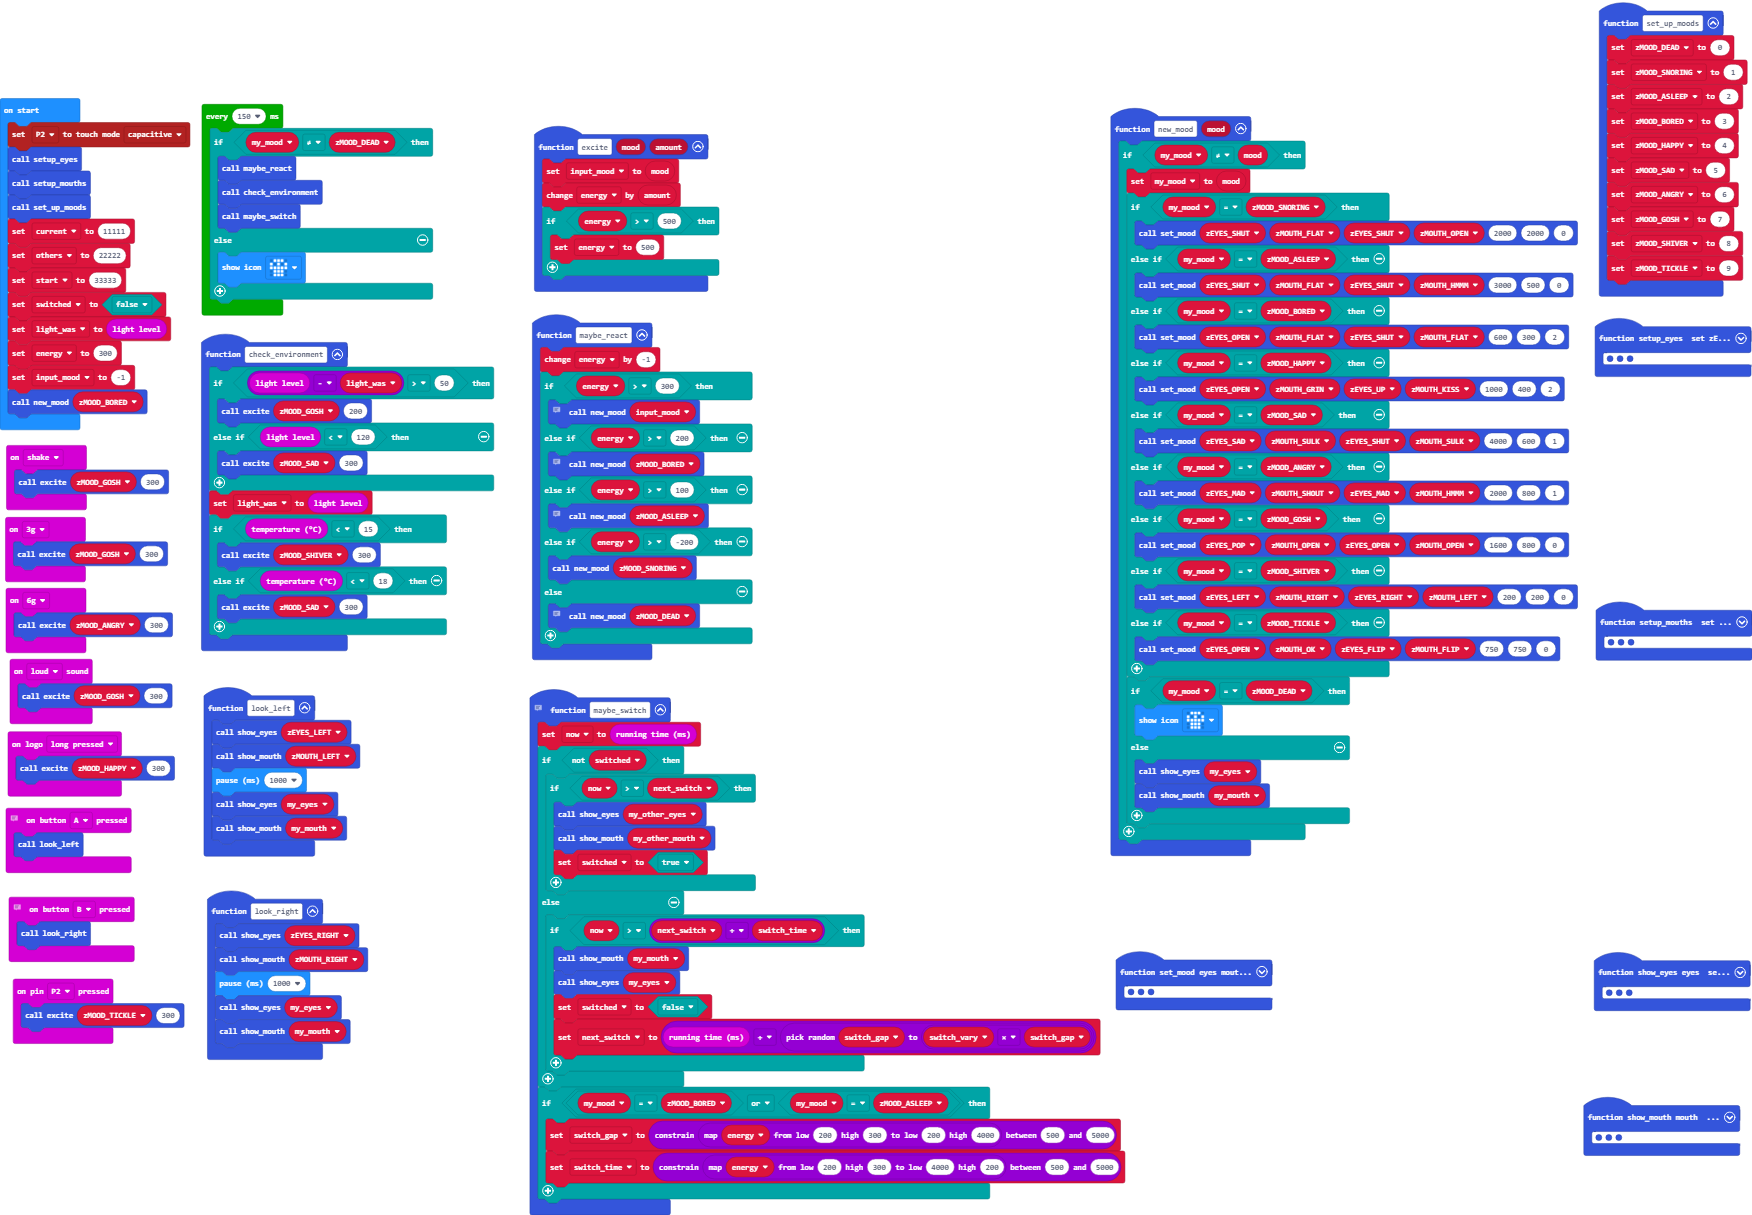
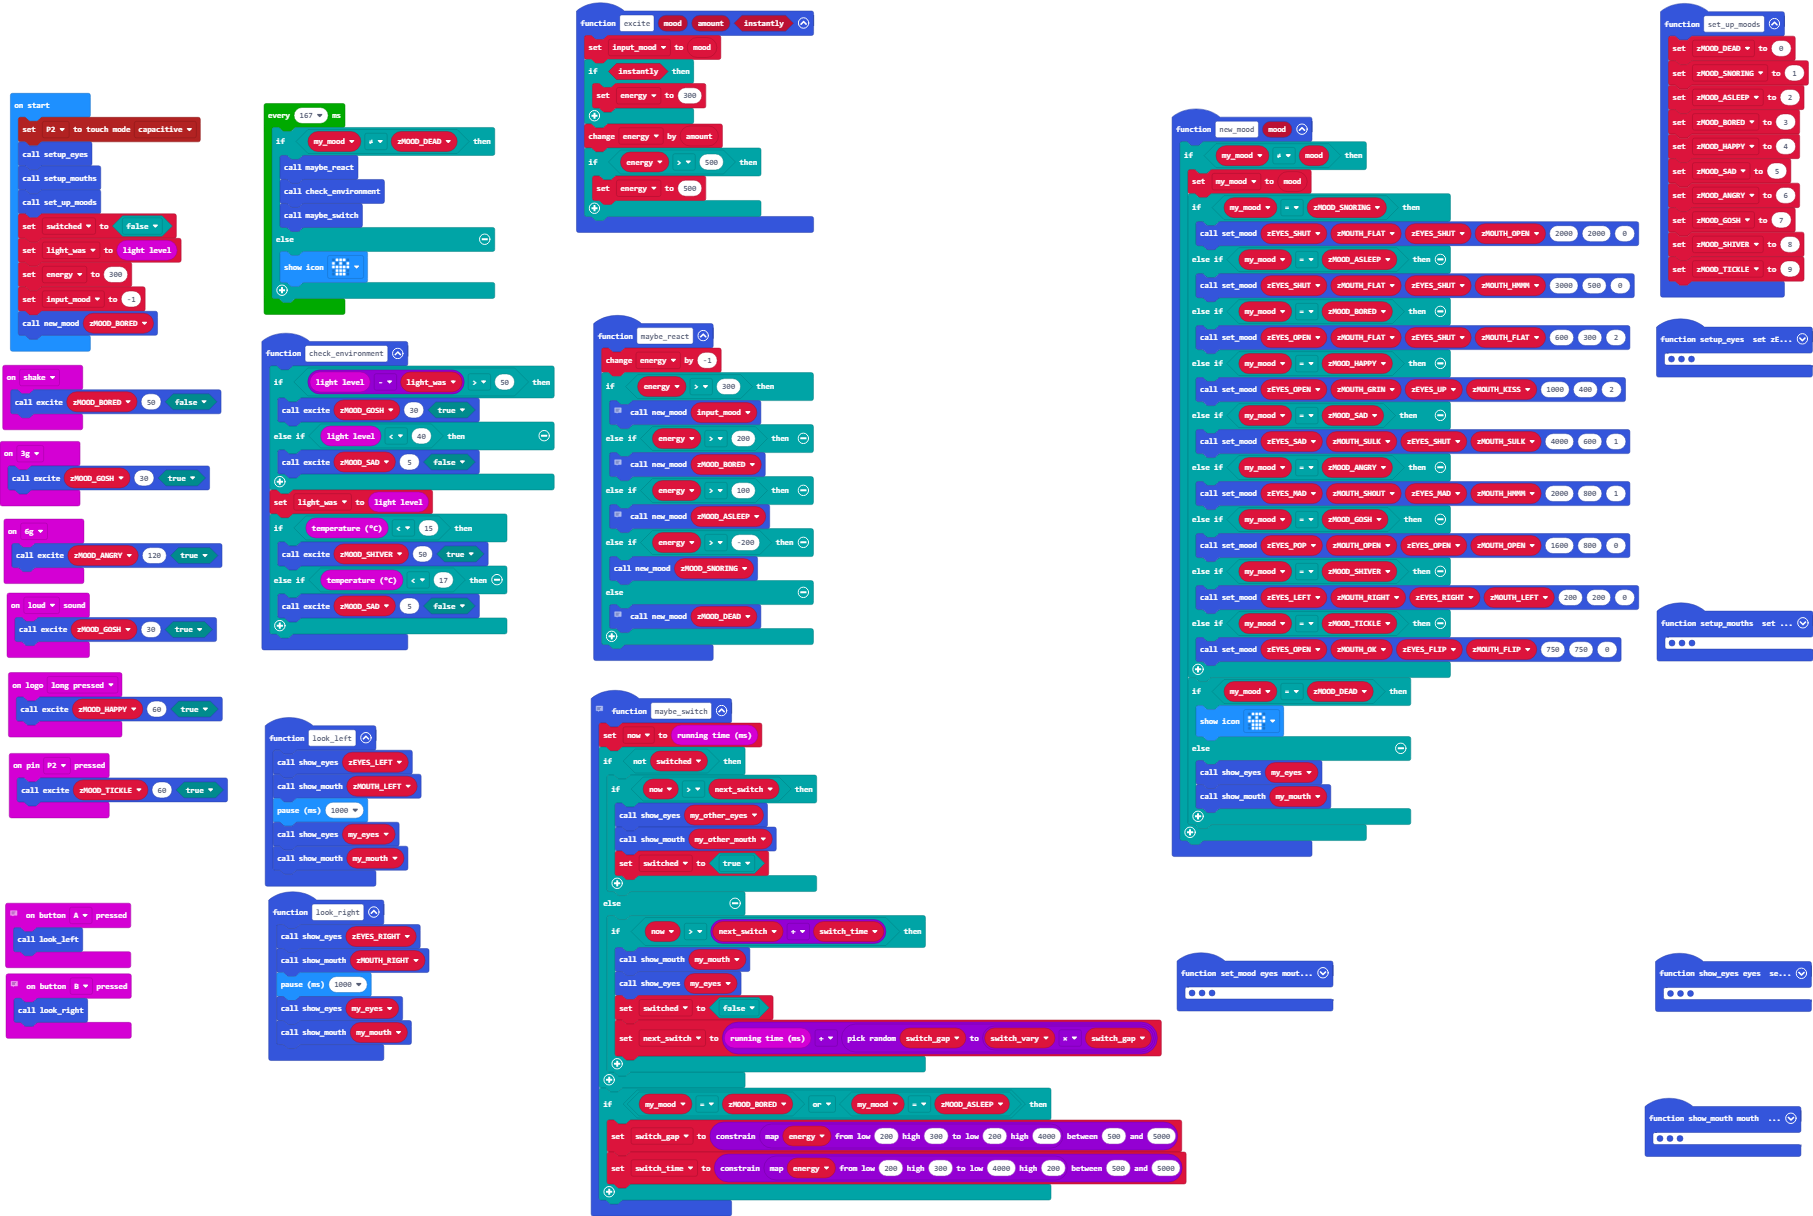
added extra parameter to excite a mood change "instantly"

diff --git a/main.ts b/main.ts
@@ -24,7 +24,7 @@ function show_eyes (eyes: number) {
     }
 }
 input.onLogoEvent(TouchButtonEvent.LongPressed, function () {
-    excite(zMOOD_HAPPY, 300)
+    excite(zMOOD_HAPPY, 60, true)
 })
 // Sometime, we should add some useful behaviour for button A
 input.onButtonPressed(Button.A, function () {
@@ -37,8 +37,11 @@ function look_right () {
     show_eyes(my_eyes)
     show_mouth(my_mouth)
 }
-function excite (mood: number, amount: number) {
+function excite (mood: number, amount: number, instantly: boolean) {
     input_mood = mood
+    if (instantly) {
+        energy = 300
+    }
     energy += amount
     if (energy > 500) {
         energy = 500
@@ -69,7 +72,7 @@ function show_mouth (mouth: number) {
     }
 }
 input.onGesture(Gesture.SixG, function () {
-    excite(zMOOD_ANGRY, 300)
+    excite(zMOOD_ANGRY, 120, true)
 })
 // In most moods, we temporarily switch between two faces.
 // So we may be blinking, snoring, shivering or laughing etc.
@@ -97,10 +100,10 @@ function maybe_switch () {
     }
 }
 input.onPinPressed(TouchPin.P2, function () {
-    excite(zMOOD_TICKLE, 300)
+    excite(zMOOD_TICKLE, 60, true)
 })
 input.onSound(DetectedSound.Loud, function () {
-    excite(zMOOD_GOSH, 300)
+    excite(zMOOD_GOSH, 30, true)
 })
 function look_left () {
     show_eyes(zEYES_LEFT)
@@ -114,7 +117,7 @@ input.onButtonPressed(Button.B, function () {
     look_right()
 })
 input.onGesture(Gesture.Shake, function () {
-    excite(zMOOD_GOSH, 300)
+    excite(zMOOD_BORED, 50, false)
 })
 function set_mood (eyes: number, mouth: number, other_eyes: number, other_mouth: number, gap: number, time: number, vary: number) {
     my_eyes = eyes
@@ -161,7 +164,7 @@ function setup_mouths () {
     zMOUTH_FLIP = 28512
 }
 input.onGesture(Gesture.ThreeG, function () {
-    excite(zMOOD_GOSH, 300)
+    excite(zMOOD_GOSH, 30, true)
 })
 function new_mood (mood: number) {
     if (my_mood != mood) {
@@ -195,15 +198,15 @@ function new_mood (mood: number) {
 }
 function check_environment () {
     if (input.lightLevel() - light_was > 50) {
-        excite(zMOOD_GOSH, 200)
-    } else if (input.lightLevel() < 120) {
-        excite(zMOOD_SAD, 300)
+        excite(zMOOD_GOSH, 30, true)
+    } else if (input.lightLevel() < 40) {
+        excite(zMOOD_SAD, 5, false)
     }
     light_was = input.lightLevel()
     if (input.temperature() < 15) {
-        excite(zMOOD_SHIVER, 300)
-    } else if (input.temperature() < 18) {
-        excite(zMOOD_SAD, 300)
+        excite(zMOOD_SHIVER, 50, true)
+    } else if (input.temperature() < 17) {
+        excite(zMOOD_SAD, 5, false)
     }
 }
 let zMOUTH_FLIP = 0
@@ -258,15 +261,12 @@ pins.touchSetMode(TouchTarget.P2, TouchTargetMode.Capacitive)
 setup_eyes()
 setup_mouths()
 set_up_moods()
-let current = 11111
-let others = 22222
-let start = 33333
 switched = false
 light_was = input.lightLevel()
 energy = 300
 input_mood = -1
 new_mood(zMOOD_BORED)
-loops.everyInterval(150, function () {
+loops.everyInterval(167, function () {
     if (my_mood != zMOOD_DEAD) {
         maybe_react()
         check_environment()
